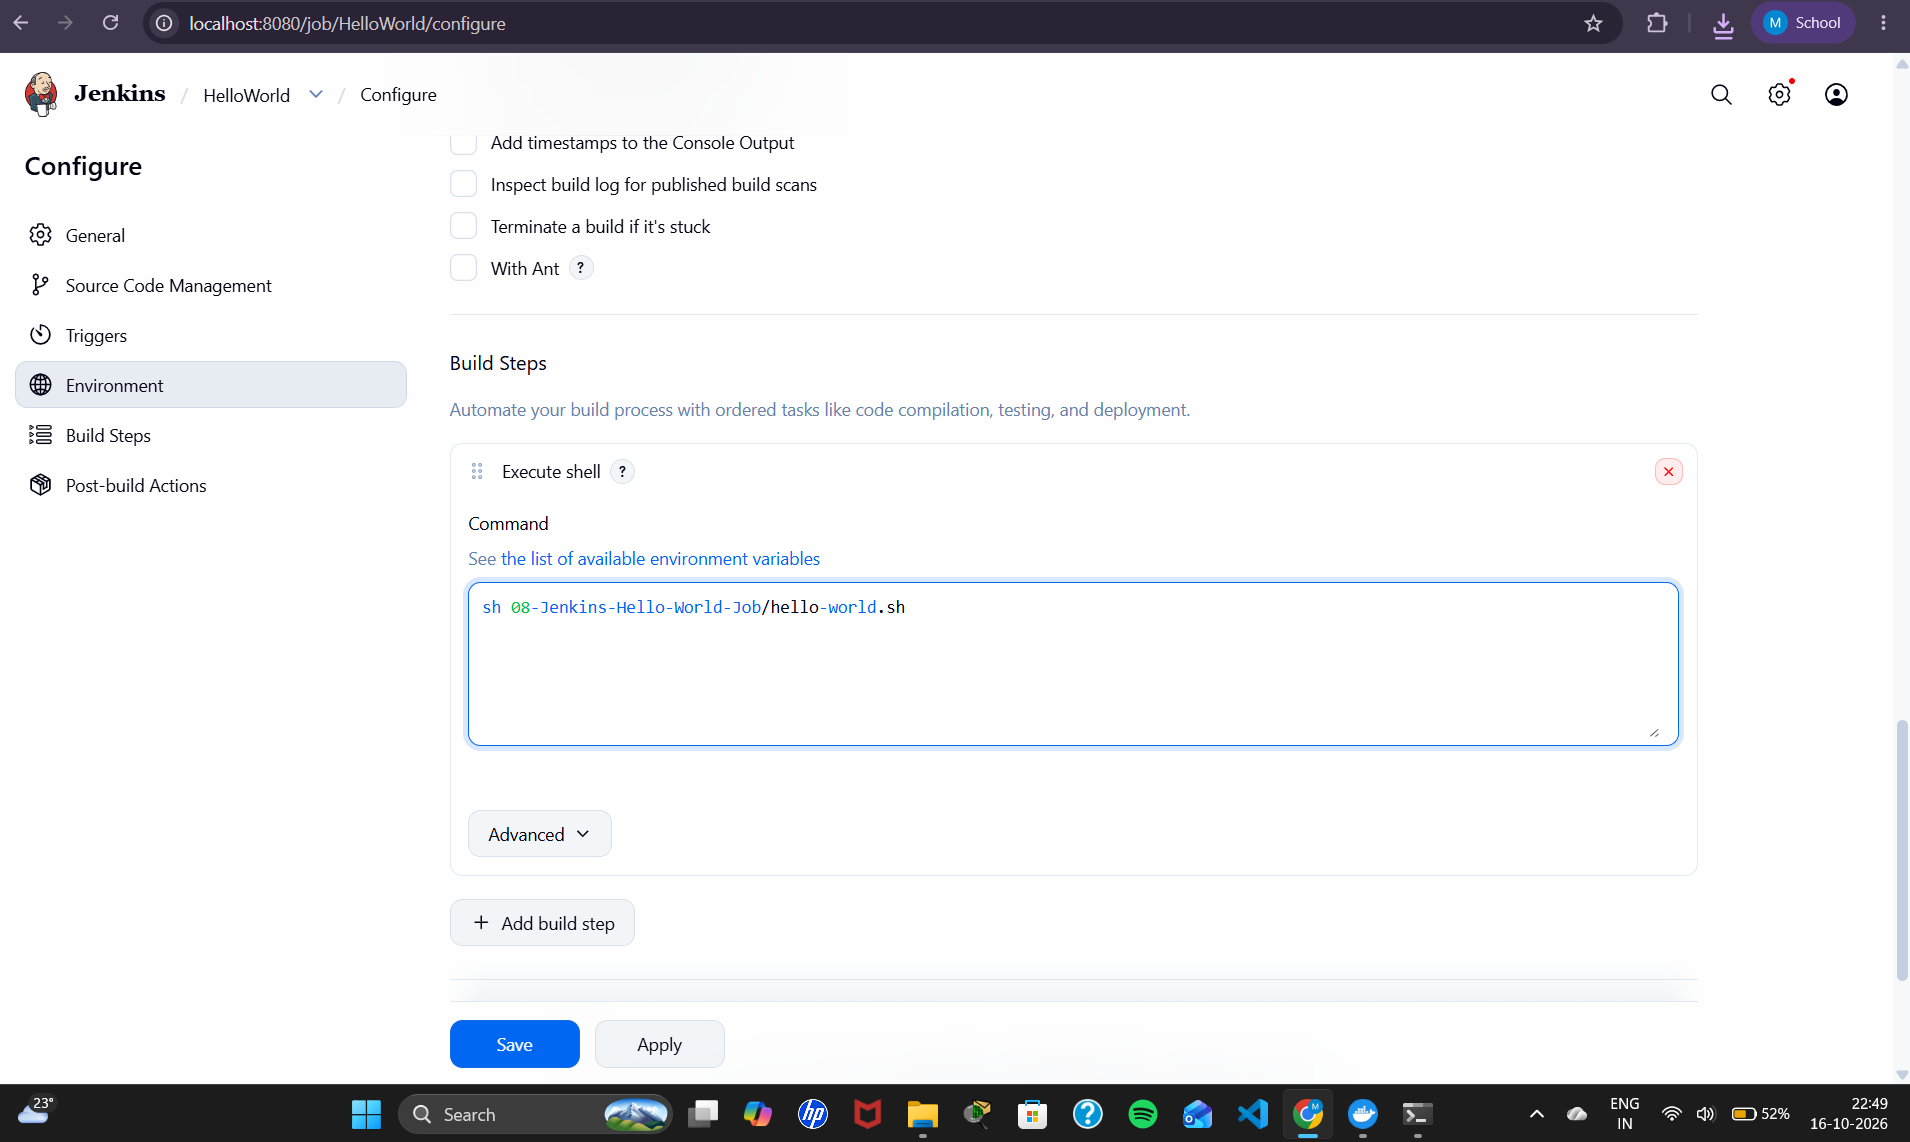
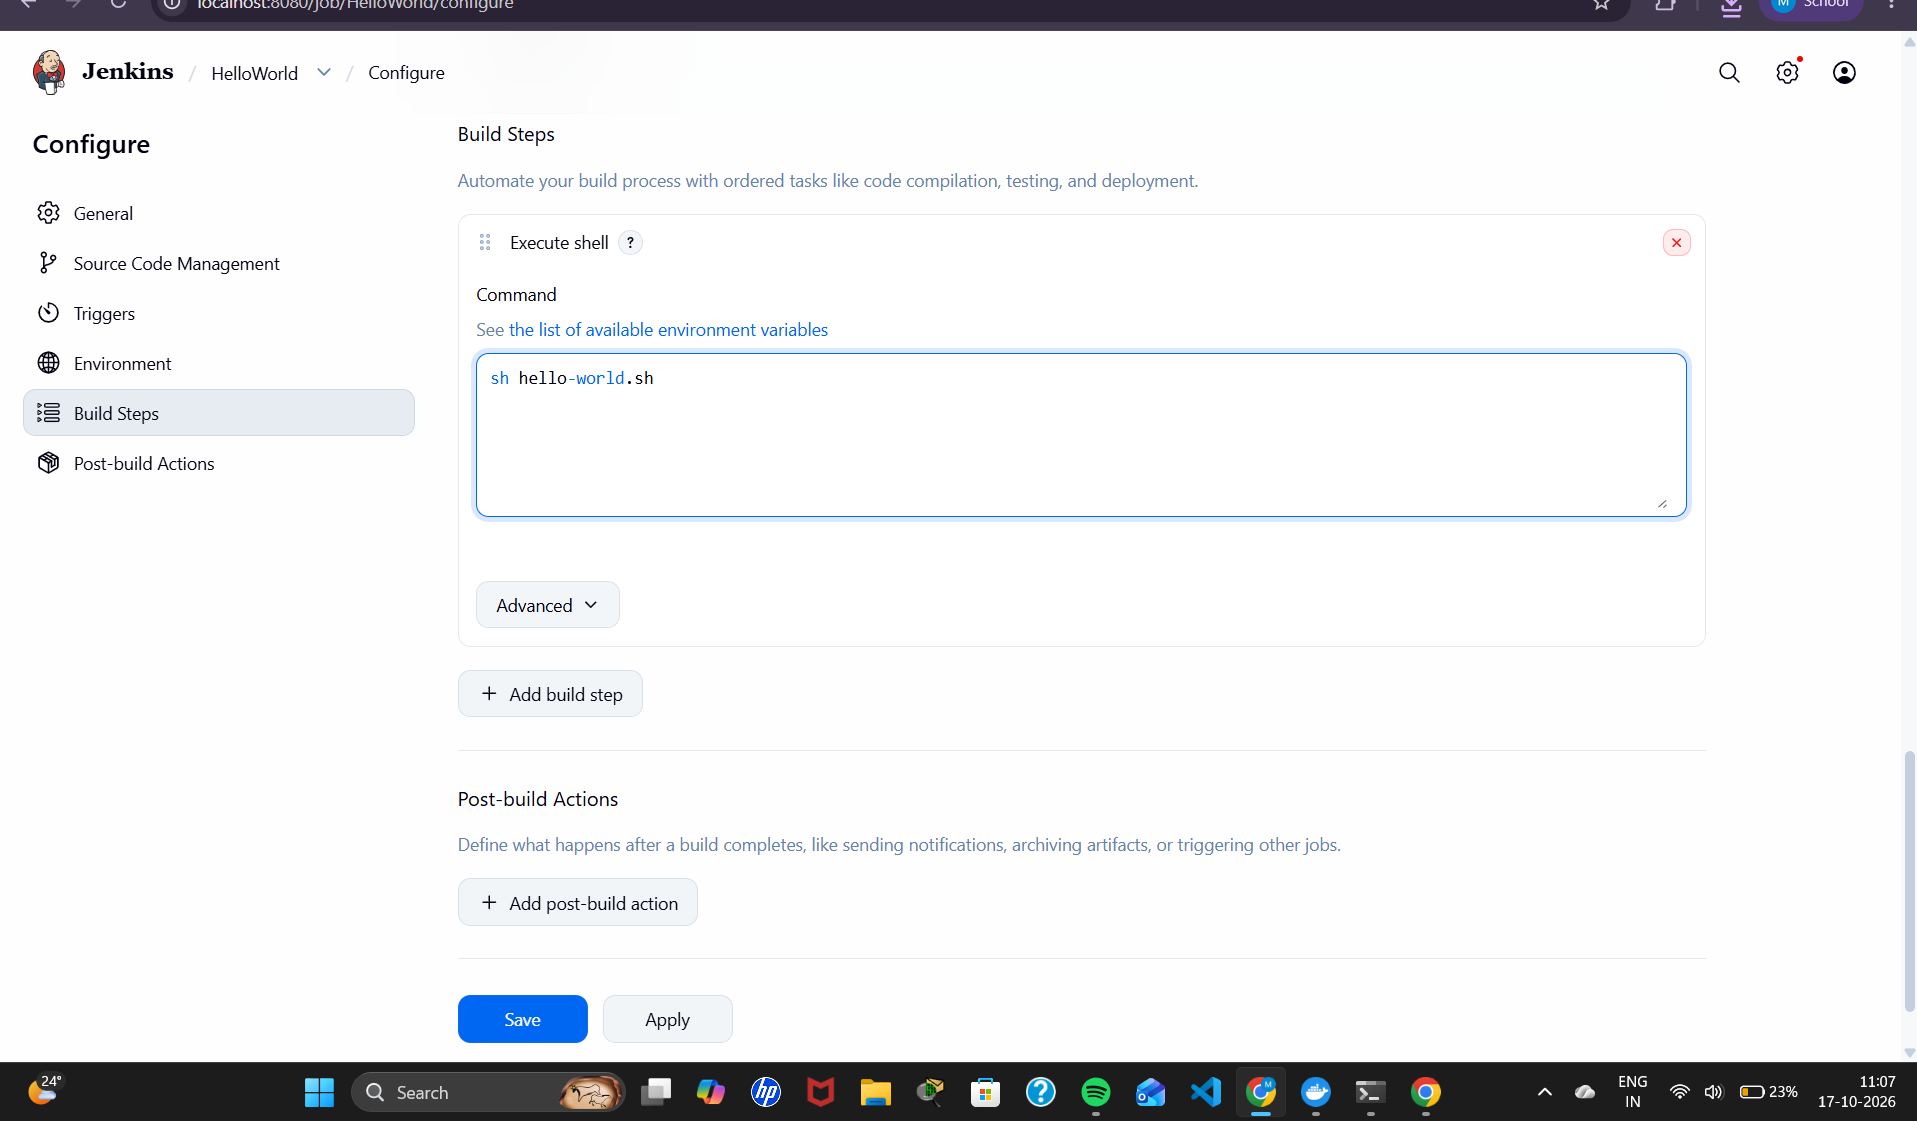
Exercise 8: use devops-sample-code repo as per manual

diff --git a/08-Jenkins-Hello-World-Job/README.md b/08-Jenkins-Hello-World-Job/README.md
@@ -1,45 +1,72 @@
 # Exercise 8: Creating a "Hello World" Jenkins Job
 
 ## Objective
-Create a shell script, push it to GitHub, and create a Jenkins Freestyle job that pulls the script from GitHub and runs it.
+Create a shell script, push it to a new GitHub repository, and create a Jenkins Freestyle job that pulls the script from GitHub and runs it.
 
-## Files
-| File | Purpose |
-|------|---------|
-| `hello-world.sh` | Shell script that prints "Hello, Jenkins!" |
+## Repository used by Jenkins
+**https://github.com/mridulaachar3/devops-sample-code** (created as per Step 1a of the manual)
+
+A copy of `hello-world.sh` is also kept in this folder for reference.
 
 ## Steps
 
-### 1. Create the script and push it to GitHub
+### 1a. Create a new GitHub repository
+- Name: `devops-sample-code`
+- Description: `A demo repository for Jenkins scripting.`
+- Visibility: Public
+
+### 1b. Authentication
+GitHub authentication is done with the GitHub CLI (`gh auth login`) instead of a personal access token.
+
+### 2. Create the script locally
 ~~~bash
+cat > hello-world.sh << 'SCRIPT'
+#!/bin/bash
+echo "Hello, Jenkins!"
+SCRIPT
 chmod +x hello-world.sh
-./hello-world.sh
-git add .
-git commit -m "Add hello-world.sh for Jenkins job"
-git push
 ~~~
-Note: the script is kept in this `devops-lab` repository (folder `08-Jenkins-Hello-World-Job`) so all exercises are in one place.
 
-### 2. Create a Freestyle job in Jenkins
-- New Item → name `HelloWorld` → Freestyle project → OK
-- Description: `Hello World! Jenkins job.`
+### 3-6. Initialise Git, commit and push
+~~~bash
+git init -b main
+git add hello-world.sh
+git status
+git commit -m "Add hello-world.sh"
+git remote add origin https://github.com/mridulaachar3/devops-sample-code.git
+git push -u origin main
+~~~
 
-### 3. Configure Source Code Management
-- Git → Repository URL: `https://github.com/mridulaachar3/devops-lab.git`
-- Credentials: none (public repository)
-- Branch Specifier: `*/main`
+### 7. Verify the script on GitHub
+`hello-world.sh` is visible in the `devops-sample-code` repository.
 
-### 4. Add a build step
-- Add build step → Execute shell: `sh 08-Jenkins-Hello-World-Job/hello-world.sh`
+## Jenkins Job
+- **New Item** → `HelloWorld` → **Freestyle project**
+- **Description:** `Hello World! Jenkins job.`
+- **Source Code Management:** Git → `https://github.com/mridulaachar3/devops-sample-code.git`, branch `*/main`
+- **Build Steps:** Execute shell → `sh hello-world.sh`
+- **Save → Build Now → Console Output**
 
-### 5. Save and run
-- Save → Build Now → #1 → Console Output
-- Output: `Hello, Jenkins!` and `Finished: SUCCESS`
+## Output
+~~~
+Started by user Mridula
+Fetching upstream changes from https://github.com/mridulaachar3/devops-sample-code.git
+Commit message: "Add hello-world.sh"
++ sh hello-world.sh
+Hello, Jenkins!
+Finished: SUCCESS
+~~~
 
 ## Output Screenshots
 
-### Script on GitHub
-![Script on GitHub](screenshots/1.png)
+### New repository devops-sample-code
+![New Repo](screenshots/1.png)
+
+### Script created, committed and pushed
+![Git Push](screenshots/6.png)
+
+### Script verified on GitHub
+![Script on GitHub](screenshots/7.png)
 
 ### Source Code Management configuration
 ![SCM Config](screenshots/2.png)
